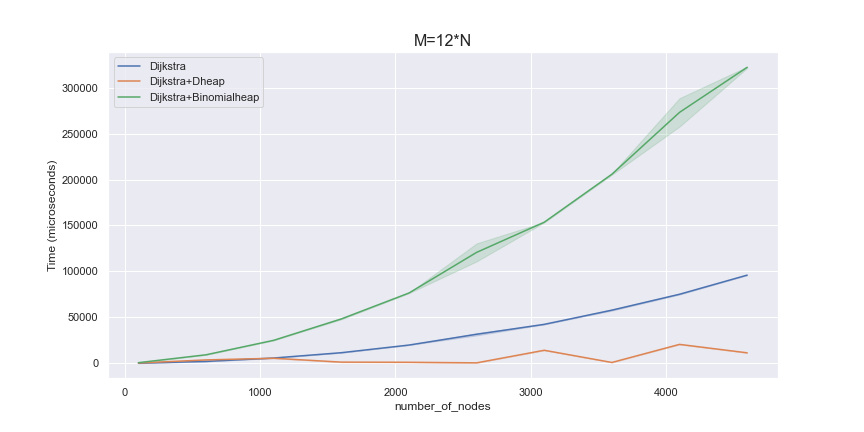
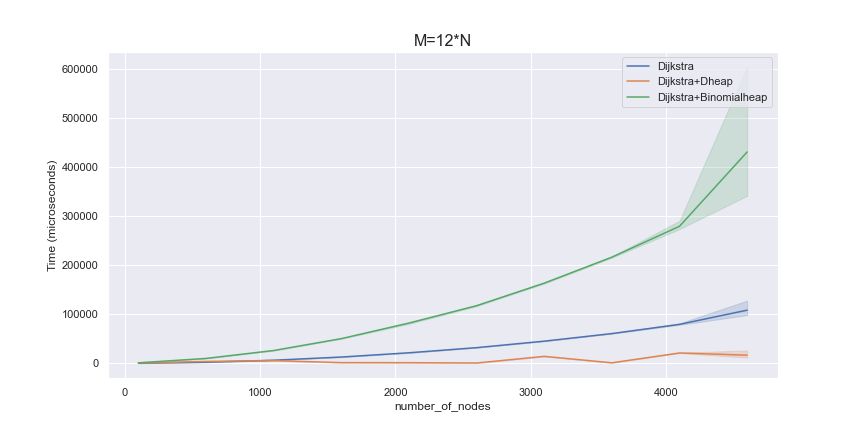
final commit :fire:

diff --git a/algorithm/include/BinomialHeap.h b/algorithm/include/BinomialHeap.h
@@ -17,15 +17,12 @@ private:
   size_t heap_size;
   size_t nodes = 0;
   std::vector<std::vector<Node<M> *>> heap;
-  // size_t k;
 
 public:
   BinomialHeap(size_t capacity) {
     this->heap_size = 0;
-    // this->id2pos = new M[capacity];
     this->heap.resize(2 * std::log2(capacity));
     this->capacity = capacity;
-    // this->k = std::log2(capacity) + 1;
   }
 
   void insert_pair(std::pair<M, int> x) {
@@ -56,9 +53,6 @@ public:
     Node<M> *res = *m;
     *m = (*m)->next;
     UnionHeaps(root, res->child);
-    // std::cout << "MIN BIN_HEAP: ";
-    // print_heap();
-    // std::cout << "\n";
     nodes--;
     return res->x;
   }
@@ -97,21 +91,12 @@ public:
     Node<M> *new_root_end = NULL;
     size_t k = std::log2(nodes) + 2;
     for (int i = 0; i < k; i++) {
-      // std::cout << "\nK_ITER:" << i << "\n";
-      // std::cout << " VECTOR: ";
-      // for (int i = 0; i < k; i++) {
-      //   std::cout << i << ":" << heap[i].size() << "; ";
-      // }
-      // if ((int)heap[i].size() == 0)
-      //   break;
       while ((int)heap[i].size() >= 2) {
-        // std::cout << "\nBEFORE HEAP [i] SIZE: " << (int)heap[i].size() << "
-        // ";
+
         heap[i + 1].push_back(Join(heap[i][(int)heap[i].size() - 1],
                                    heap[i][(int)heap[i].size() - 2]));
         heap[i].pop_back();
         heap[i].pop_back();
-        // std::cout << "AFTER HEAP [i] SIZE: " << (int)heap[i].size() << "\n";
       }
       if ((int)heap[i].size() == 1) {
         heap[i][0]->next = NULL;
@@ -157,10 +142,6 @@ public:
       return;
     if (parent->x.first > node->x.first) {
       swap(parent->x, node->x);
-      // std::pair<M, int> tmp;
-      // tmp = node->x;
-      // node->x = parent->x;
-      // parent->x = tmp;
       emersion(parent);
     }
   }

diff --git a/algorithm/include/utils.h b/algorithm/include/utils.h
@@ -1,6 +1,6 @@
 #pragma once
 
-#define ATTEMPTS 2
+#define ATTEMPTS 3
 #define BENCHMARKS "../benchmarks/benchmarks.txt"
 #define OUTFILE "../results/performance.csv"
 
